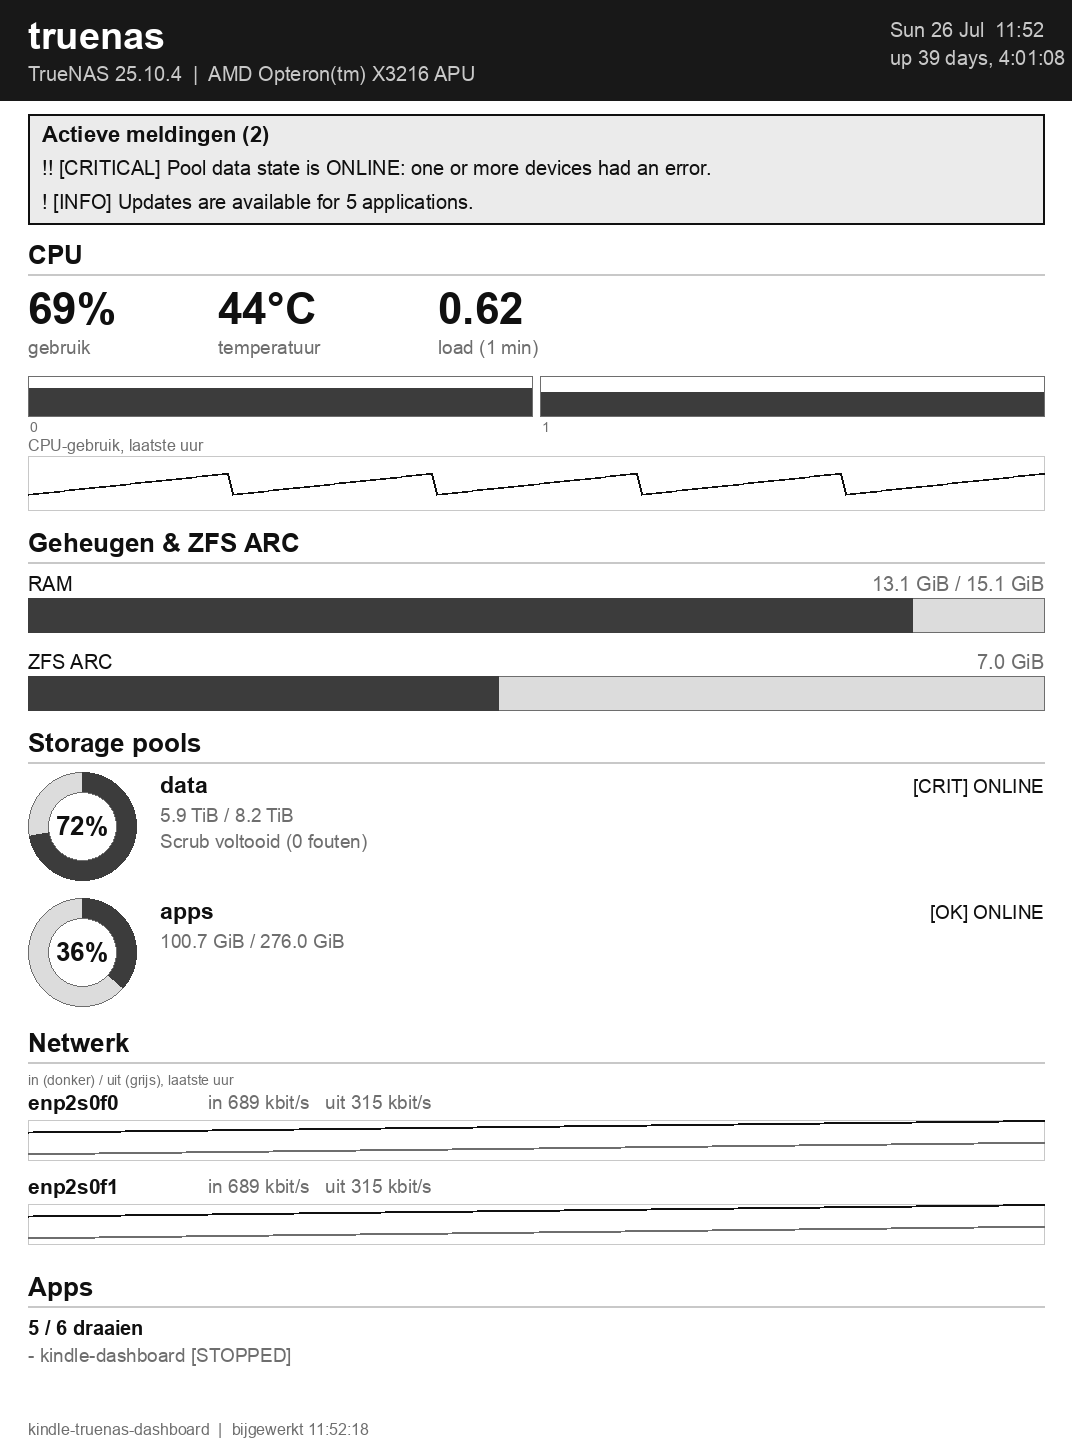
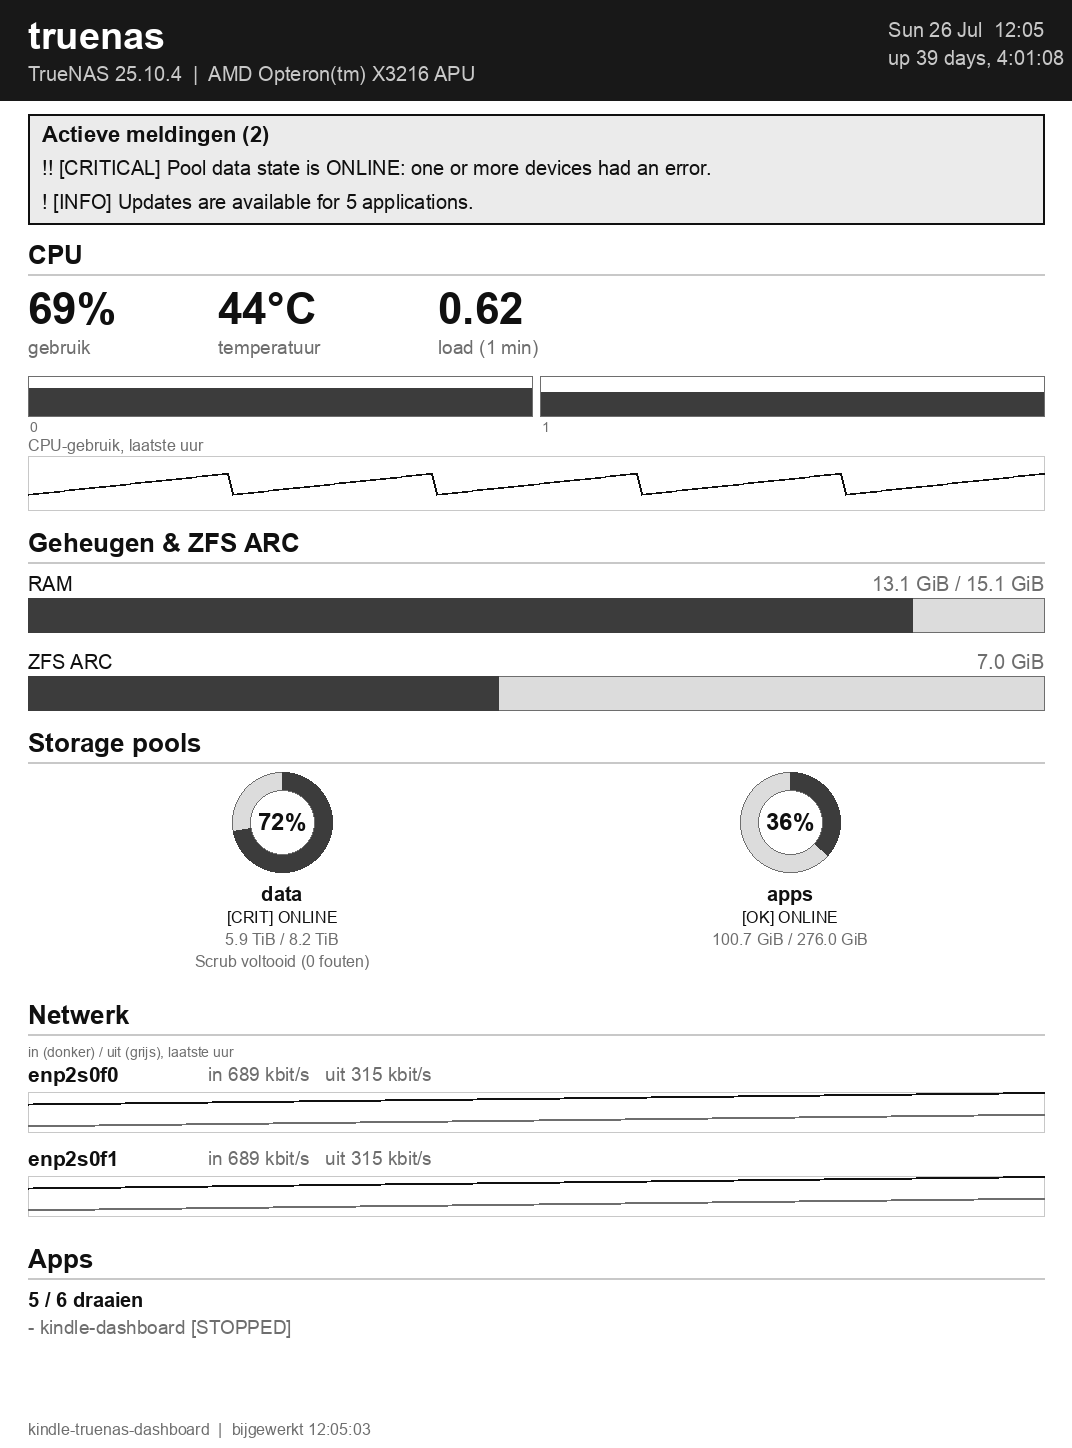
feat: lay out storage-pool donuts side by side in a grid
Previously each pool got its own full-width row (donut + text), leaving a
large empty strip to the right once there was more than one pool. Pools
now render as a card grid (up to 4 columns, wrapping to further rows),
which uses the width the donuts actually need and roughly halves the
section's height with two pools.

diff --git a/src/kindle_dashboard/render.py b/src/kindle_dashboard/render.py
@@ -400,34 +400,51 @@ def _scan_summary(scan: dict | None) -> str | None:
 
 def _draw_pools_section(draw: ImageDraw.ImageDraw, snapshot: Snapshot, y: int) -> int:
     y = _section_title(draw, MARGIN, y, "Storage pools", CONTENT_W)
-    f_name = load_font(23, bold=True)
-    f_body = load_font(19)
-    f_pct = load_font(26, bold=True)
-
-    donut_d = 108
-    donut_r = donut_d // 2
-    inner_r = donut_r - 20  # ringdikte 20px: dun genoeg voor een "donut", dik genoeg om af te lezen
-    gap_after_donut = 24
-    text_x = MARGIN + donut_d + gap_after_donut
-    text_w = CONTENT_W - donut_d - gap_after_donut
-    row_gap = 18
-    # Worst-case rijhoogte: het hoogste van (donut, tekstblok mét scanregel).
-    # Altijd de scanregel meerekenen (niet gemiddeld) -- anders kan de
-    # laatste pool die "past" alsnog voorbij CONTENT_BOTTOM tekenen zodra
-    # er wél een actieve scrub/resilver is.
-    text_block_h = 32 + 26 + 26
-    row_h = max(donut_d, text_block_h) + row_gap
+    f_name = load_font(20, bold=True)
+    f_body = load_font(16)
+    f_pct = load_font(24, bold=True)
 
     pools = list(snapshot.pools)
-    for shown, pool in enumerate(pools):
-        if y + row_h > CONTENT_BOTTOM:
-            remaining = len(pools) - shown
-            draw.text((MARGIN, y), f"+ {remaining} meer pool(s)", font=f_body, fill=MUTED)
-            y += 26
-            break
+    if not pools:
+        draw.text((MARGIN, y), "Geen pools gevonden", font=f_body, fill=MUTED)
+        return y + 26
+
+    # Donuts náást elkaar i.p.v. één per rij -- bij één donut per volle-breedte
+    # rij bleef er, zeker met weinig pools, veel ongebruikte ruimte rechts van
+    # de (smalle) tekst over. Kolomaantal past zich aan het aantal pools aan,
+    # met een bovengrens zodat kaarten niet te smal worden om af te lezen.
+    max_columns = 4
+    columns = min(len(pools), max_columns)
+    card_w = CONTENT_W // columns
+
+    donut_d = 100
+    donut_r = donut_d // 2
+    inner_r = donut_r - 18  # ringdikte 18px: dun genoeg voor een "donut", dik genoeg om af te lezen
+    top_gap = 10
+    name_h = 26
+    status_h = 22
+    used_h = 22
+    scan_h = 22
+    row_gap = 22
+    # Worst-case kaarthoogte: altijd de scanregel meerekenen (niet alleen als
+    # _scan_summary() voor déze pool iets teruggeeft) -- anders kan een latere
+    # rij die eerst "past" alsnog voorbij CONTENT_BOTTOM tekenen zodra een
+    # pool in die rij wél een actieve scrub/resilver blijkt te hebben.
+    card_h = donut_d + top_gap + name_h + status_h + used_h + scan_h
+    row_h = card_h + row_gap
+
+    rows_that_fit = _max_rows(y, row_h, overflow_h=26)
+    max_items = rows_that_fit * columns
+    shown = pools[:max_items] if len(pools) > max_items else pools
+
+    for i, pool in enumerate(shown):
+        col, row = i % columns, i // columns
+        card_x = MARGIN + col * card_w
+        card_y = y + row * row_h
+        cx = card_x + card_w // 2
 
         frac = (pool.allocated / pool.size) if pool.size and pool.allocated is not None else 0.0
-        cx, cy = MARGIN + donut_r, y + donut_r
+        cy = card_y + donut_r
         bbox = [cx - donut_r, cy - donut_r, cx + donut_r, cy + donut_r]
         draw.ellipse(bbox, fill=BAR_TRACK, outline=MUTED)
         if frac > 0:
@@ -438,25 +455,42 @@ def _draw_pools_section(draw: ImageDraw.ImageDraw, snapshot: Snapshot, y: int) -
         )
         pct_text = f"{frac * 100:.0f}%"
         pw = draw.textlength(pct_text, font=f_pct)
-        draw.text((cx - pw / 2, cy - 15), pct_text, font=f_pct, fill=INK)
+        draw.text((cx - pw / 2, cy - 14), pct_text, font=f_pct, fill=INK)
 
-        ty = y
+        ty = card_y + donut_d + top_gap
+        max_text_w = card_w - 16
+
         status = _status_label(pool.healthy, pool.warning)
-        draw.text((text_x, ty), pool.name, font=f_name, fill=INK)
-        status_text = f"[{status}] {pool.status}"
-        sw = draw.textlength(status_text, font=f_body)
-        draw.text((text_x + text_w - sw, ty + 3), status_text, font=f_body, fill=INK)
-        ty += 32
+        name_text = _truncate(draw, pool.name, f_name, max_text_w)
+        nw = draw.textlength(name_text, font=f_name)
+        draw.text((cx - nw / 2, ty), name_text, font=f_name, fill=INK)
+        ty += name_h
 
-        used_label = f"{_fmt_bytes(pool.allocated)} / {_fmt_bytes(pool.size)}"
-        draw.text((text_x, ty), used_label, font=f_body, fill=MUTED)
-        ty += 26
+        status_text = _truncate(draw, f"[{status}] {pool.status}", f_body, max_text_w)
+        sw = draw.textlength(status_text, font=f_body)
+        draw.text((cx - sw / 2, ty), status_text, font=f_body, fill=INK)
+        ty += status_h
+
+        used_label = _truncate(
+            draw, f"{_fmt_bytes(pool.allocated)} / {_fmt_bytes(pool.size)}", f_body, max_text_w
+        )
+        uw = draw.textlength(used_label, font=f_body)
+        draw.text((cx - uw / 2, ty), used_label, font=f_body, fill=MUTED)
+        ty += used_h
 
         scan_text = _scan_summary(pool.scan)
         if scan_text:
-            draw.text((text_x, ty), scan_text, font=f_body, fill=MUTED)
+            scan_text = _truncate(draw, scan_text, f_body, max_text_w)
+            scw = draw.textlength(scan_text, font=f_body)
+            draw.text((cx - scw / 2, ty), scan_text, font=f_body, fill=MUTED)
 
-        y += row_h
+    rows_used = (len(shown) + columns - 1) // columns if shown else 0
+    y += rows_used * row_h
+
+    hidden = len(pools) - len(shown)
+    if hidden > 0:
+        draw.text((MARGIN, y), f"+ {hidden} meer pool(s)", font=f_body, fill=MUTED)
+        y += 26
 
     return y + 4
 

diff --git a/kindle/README.md b/kindle/README.md
@@ -13,9 +13,24 @@ op je eigen Voyage voordat je het script laat draaien.
 ## Vereisten (al aanwezig volgens jouw opzet)
 
 - WinterBreak2-jailbreak + hotfix
-- KUAL + MRInstaller, werkend
-- **linkss** ("K5 FW 5.x ScreenSavers Hack") — zo niet: installeer via
-  MRInstaller (`Update_linkss_*_install_touch_pw.bin` in `/mnt/us/mrpackages/`)
+- KUAL + MRInstaller ("MR Installer" v1.6, NiLuJe), werkend
+- **linkss** ("K5 FW 5.x ScreenSavers Hack", v0.25.N) — zo niet:
+  1. Download het pakket van de
+     [Snapshots-thread](https://www.mobileread.com/forums/showthread.php?t=225030)
+     (of de [hoofdthread](https://www.mobileread.com/forums/showthread.php?t=195474)).
+  2. Pak het uit en zet **`Update_linkss_0.25.N_install_pw2_and_up.bin`**
+     (dit is de variant voor de Kindle Voyage — linkss groepeert 'm bij
+     "PW2 en nieuwer": PW2/KT2/KV/PW3/KOA/KT3/KOA2/PW4/KT4/KOA3/PW5; **niet**
+     de `_install_touch_pw.bin`-variant, die is voor de originele Touch/PW1)
+     in `/mnt/us/mrpackages/`.
+  3. Eject & unplug de Kindle, open dan op het toestel zelf **KUAL → Helper →
+     Install MR Packages** (dat is MRInstaller/MRPI).
+  4. Na de herstart: zet de Kindle in slaap en controleer of er een
+     bevestigings-screensaver verschijnt — dat betekent dat de installatie
+     is gelukt.
+  5. Verwijder de meegeleverde placeholder-afbeelding(en)
+     (`00_you_can_delete_me*.png`) uit `/mnt/us/linkss/screensavers/` zodat
+     straks alleen `dashboard.png` in die map staat (zie hieronder waarom).
 - **fbink** — wordt door de meeste NiLuJe-pakketten al meegeleverd; check met
   `which fbink` in een KUAL-terminal. Zo niet, dan werkt het script ook
   zonder (het slaat de fbink-stap dan gewoon over en je ziet de nieuwe
@@ -31,9 +46,10 @@ op je eigen Voyage voordat je het script laat draaien.
      LAN-IP van je TrueNAS-server op poort 8000. **Gebruik platte HTTP**,
      geen HTTPS — de ingebouwde busybox-`wget` op deze firmware kan geen
      moderne TLS afhandelen.
-   - `SCREENSAVER_PATH` — controleer in linkss' eigen instellingenmenu
-     (KUAL > linkss) welk bestand/pad de actieve "custom screensaver" is;
-     pas dit aan als het afwijkt van het voorbeeld in het script.
+   - `SCREENSAVER_PATH` — staat standaard op
+     `/mnt/us/linkss/screensavers/dashboard.png`. Zolang dit het enige
+     bestand in die map is (zie de placeholder-opruimstap hierboven), toont
+     linkss altijd deze afbeelding.
 3. Zorg dat het script uitvoerbaar is: `chmod +x fetch_and_display.sh`
    (via een KUAL-terminal, of via USB als je bestandsbeheer permissies
    behoudt).
